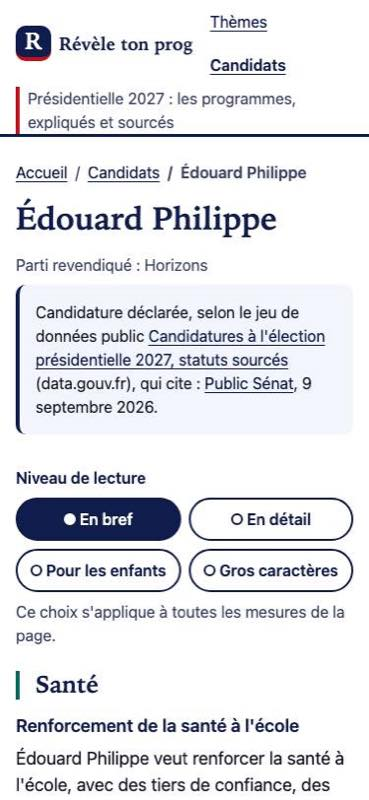
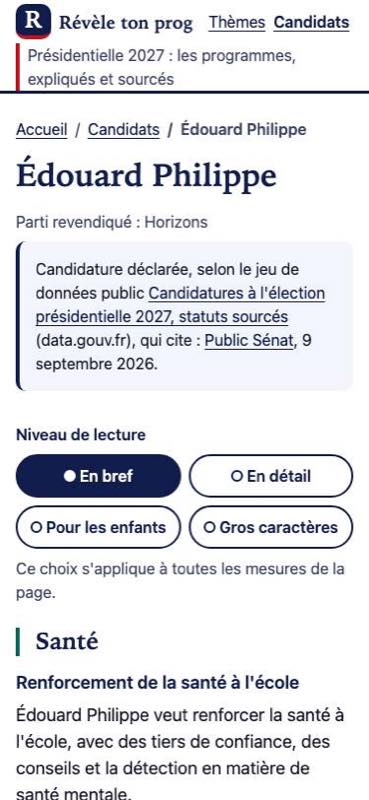
docs(10.4): vérification, captures après refaites avec l'en-tête corrigé, plans cochés

diff --git a/.planning/phases/10.4-charte-d-textes-acceptes-p-01-a-p-10/10.4-VERIFICATION.md b/.planning/phases/10.4-charte-d-textes-acceptes-p-01-a-p-10/10.4-VERIFICATION.md
@@ -1,0 +1,21 @@
+---
+phase: 10.4-charte-d-textes-acceptes-p-01-a-p-10
+verified: 2026-11-28
+status: human_needed
+score: 4/4 critères vérifiés dans le code et par la garde ; validation visuelle d'Erwan et déploiement restants
+---
+
+# Phase 10.4 : vérification
+
+Vérification de l'orchestrateur, sur la branche `design/charte-d-textes` (base main e02b9bd), après les plans 01 à 05, le report du correctif de la PR #17 (d4b97e6) et la retouche de l'en-tête (677e5e2).
+
+| # | Critère (ROADMAP) | Statut | Preuve |
+|---|---|---|---|
+| 1 | P-01 à P-08 en ligne, chacun calculé depuis les données | VÉRIFIÉ | Comparaison des textes visibles avec e02b9bd (`cmp104.mjs`, plan 05) : 0 différence hors P-01 à P-08, phrase U-05 et nombre du lien (PR #17) ; chaque texte nouveau égal à sa donnée (`libellesTours()`, rang, premier thème, `themesAVenir`, `initiales()`). Falsifications des plans 01 à 04 : chaque littéral écrit à la main fait échouer un test. |
+| 2 | Titre plus grand par jetons, Gros caractères cohérent, accès au thème au premier écran mobile | VÉRIFIÉ | `--t-affiche` 32, 40, 48 px (Gros caractères 36, 44, 52), tests de paliers ; bouton « Lire le thème … » entier au premier écran à 375 x 812, bas à 561 px (fixture) et 660 px avec bandeau de préversion (vrai corpus), seuil 700 px. |
+| 3 | Image de partage aux couleurs D | VÉRIFIÉ | `scripts/partage.ts` lit les jetons de `base.css`, aucune couleur écrite dans `partage.ts` ni `partage.html` (test falsifié), `partage --check` vert, 73 069 octets. |
+| 4 | Rien en dur, garde-fous verts, pas d'imitation de l'État, PR avec captures | VÉRIFIÉ, PR à ouvrir | Garde complète du 2026-11-28 : `npm run check` 0 erreur ; `npm test` 3 755 tests, 3 746 réussis, 0 échec ; `npm run e2e` m1 314, réel 1 299, relecture 2 réussis. Rouge limité à R-1 à R-8 (recensement navigateur). Logo regardé sur les captures : carré bleu nuit, « R » blanc, filet rouge bas, rien de l'État. Diff vide sous src/content, data, schemas, config, package*.json. |
+
+Écarts acceptés : budget brut de CSS relevé de +2 000 à +4 000 octets (28 773 octets, +3 972 ; gzip santé +640, Slow 4G 755 ms), amendement au UI-SPEC. En-tête mobile corrigé (95 px sur une ligne de 375 à 414 px).
+
+Restent pour Erwan : regarder les captures avant et après de la PR, fusionner, puis `npm run ci:local` et `npm run deploy:local`. Dette hors périmètre : « 2027 » encore écrit à la main dans le h1, la présentation de l'accueil, `SOUS_TITRE`, `PROMESSE_PARTAGE` et le titre de la page d'accueil.

diff --git a/.planning/ROADMAP.md b/.planning/ROADMAP.md
@@ -322,11 +322,11 @@ Plans:
 **Plans**: 5 plans
 
 Plans:
-- [ ] 10.4-01-PLAN.md : données calculées (initiales, textes des tours, thèmes à venir, initiale du site) et image de partage aux couleurs D (P-10)
-- [ ] 10.4-02-PLAN.md : haut de l'accueil (surtitre P-07, bloc 2027 P-02, bouton P-04, étiquettes des garanties P-01), titre par paliers (P-09), premier écran mobile sur le bouton
-- [ ] 10.4-03-PLAN.md : tuiles numérotées (P-03), pastille « Lire » (P-04), thèmes à venir en tuiles pleines (P-05), règle U-05
-- [ ] 10.4-04-PLAN.md : logo carré « R » (P-06) et vignettes à initiales (P-08)
-- [ ] 10.4-05-PLAN.md : clôture (textes visibles inchangés hors P-01 à P-08, recensement du rouge, garde, mesures, captures avant et après, renvois)
+- [x] 10.4-01-PLAN.md : données calculées (initiales, textes des tours, thèmes à venir, initiale du site) et image de partage aux couleurs D (P-10)
+- [x] 10.4-02-PLAN.md : haut de l'accueil (surtitre P-07, bloc 2027 P-02, bouton P-04, étiquettes des garanties P-01), titre par paliers (P-09), premier écran mobile sur le bouton
+- [x] 10.4-03-PLAN.md : tuiles numérotées (P-03), pastille « Lire » (P-04), thèmes à venir en tuiles pleines (P-05), règle U-05
+- [x] 10.4-04-PLAN.md : logo carré « R » (P-06) et vignettes à initiales (P-08)
+- [x] 10.4-05-PLAN.md : clôture (textes visibles inchangés hors P-01 à P-08, recensement du rouge, garde, mesures, captures avant et après, renvois)
 
 ## Progress
 
@@ -347,4 +347,4 @@ Plans:
 | 10.1 Veille des candidatures | v1.1 | 5/5 | Complete (Telegram et Healthchecks à configurer par Erwan) | 2026-11-20 |
 | 10.2 Charte graphique D bleu blanc rouge | v1.1 | 5/5 | Complete | 2026-11-27 |
 | 10.3 Mise à jour autonome des statuts | v1.1 | 11/11 | Code complet, mise en service en attente (clé, jeton, push, launchd) |  |
-| 10.4 Charte D, textes acceptés P-01 à P-10 | v1.1 | 0/? | Not started |  |
+| 10.4 Charte D, textes acceptés P-01 à P-10 | v1.1 | 5/5 | Exécutée, PR ouverte, en attente d'Erwan |  |
